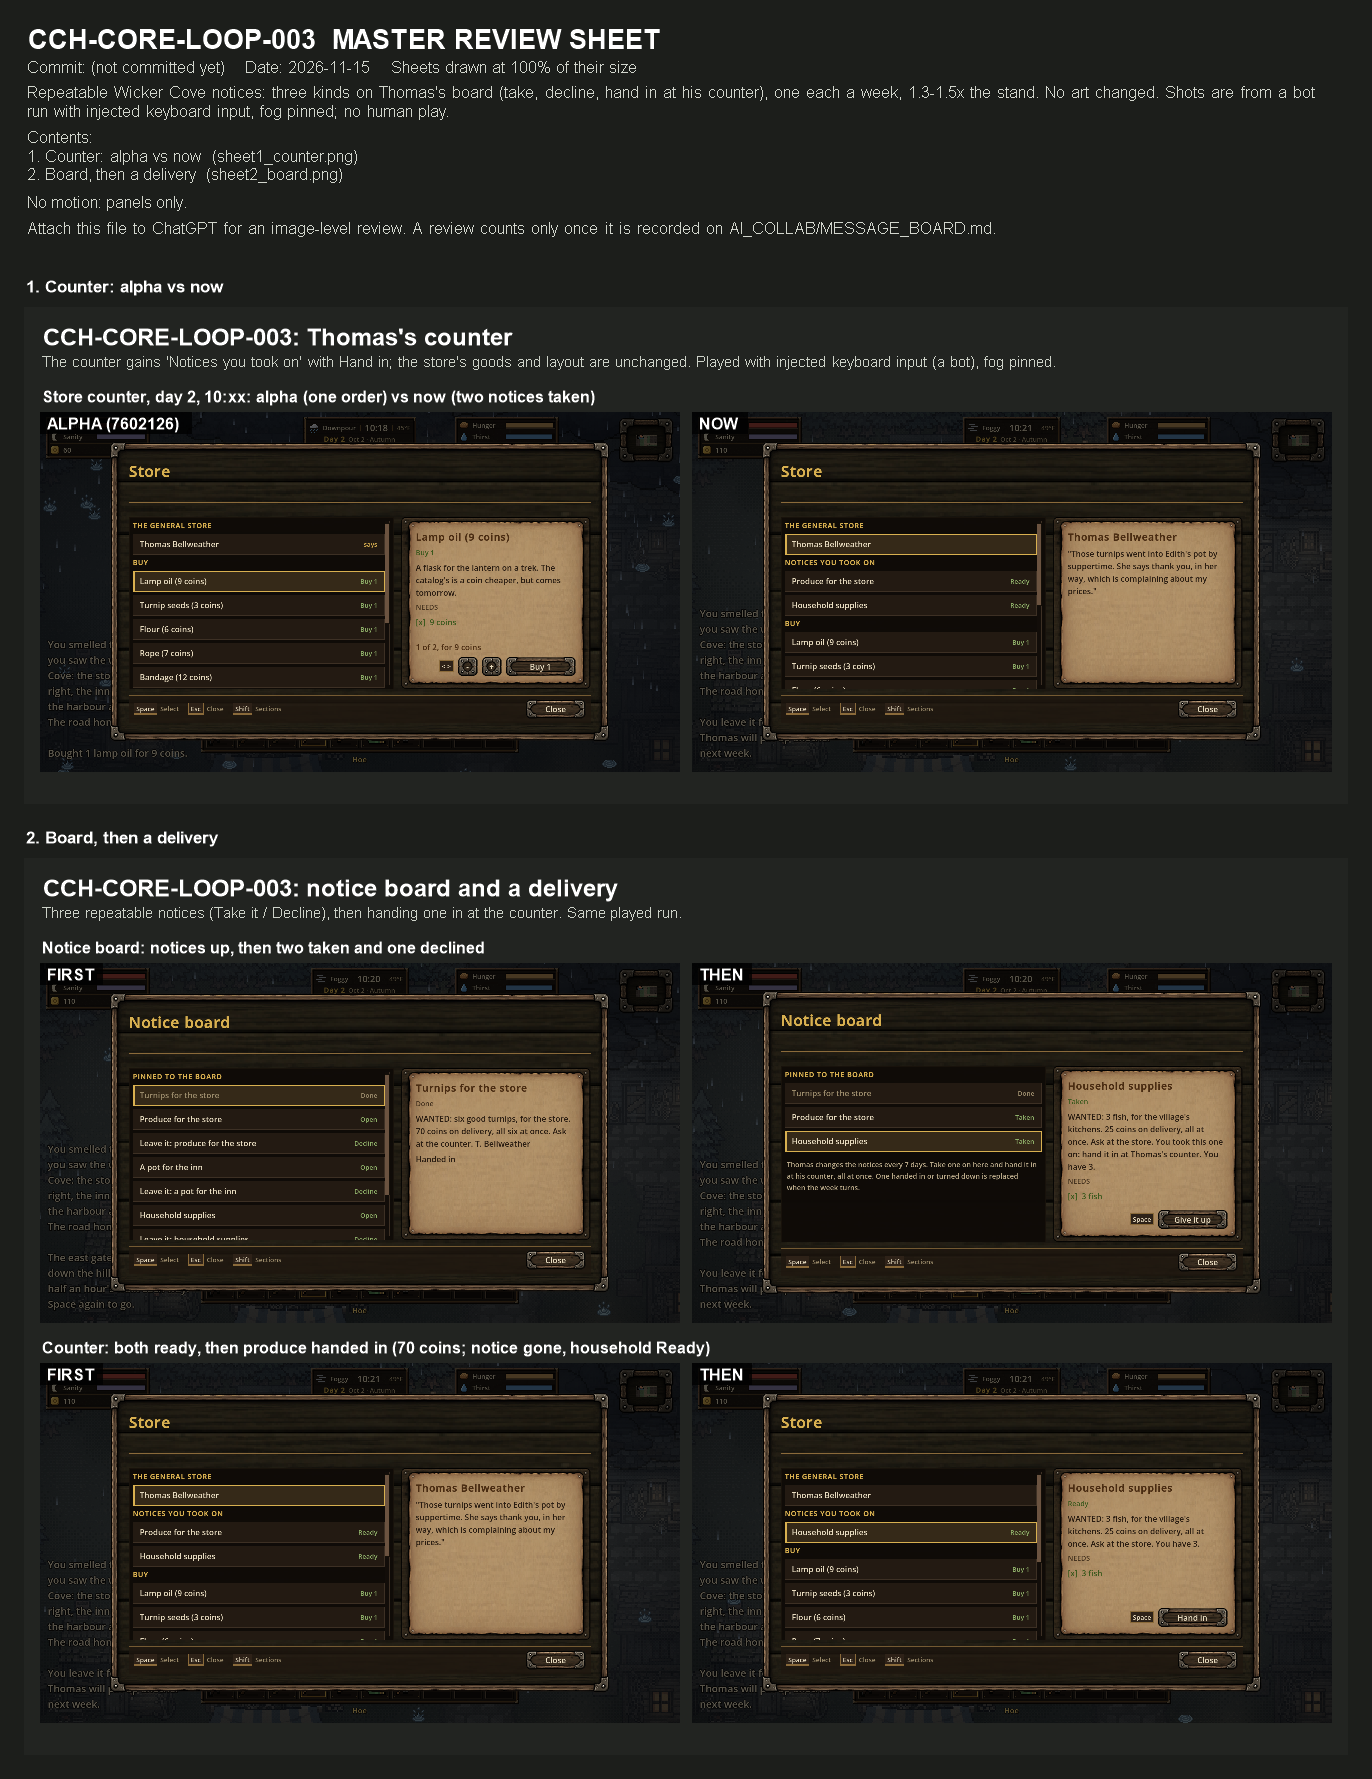
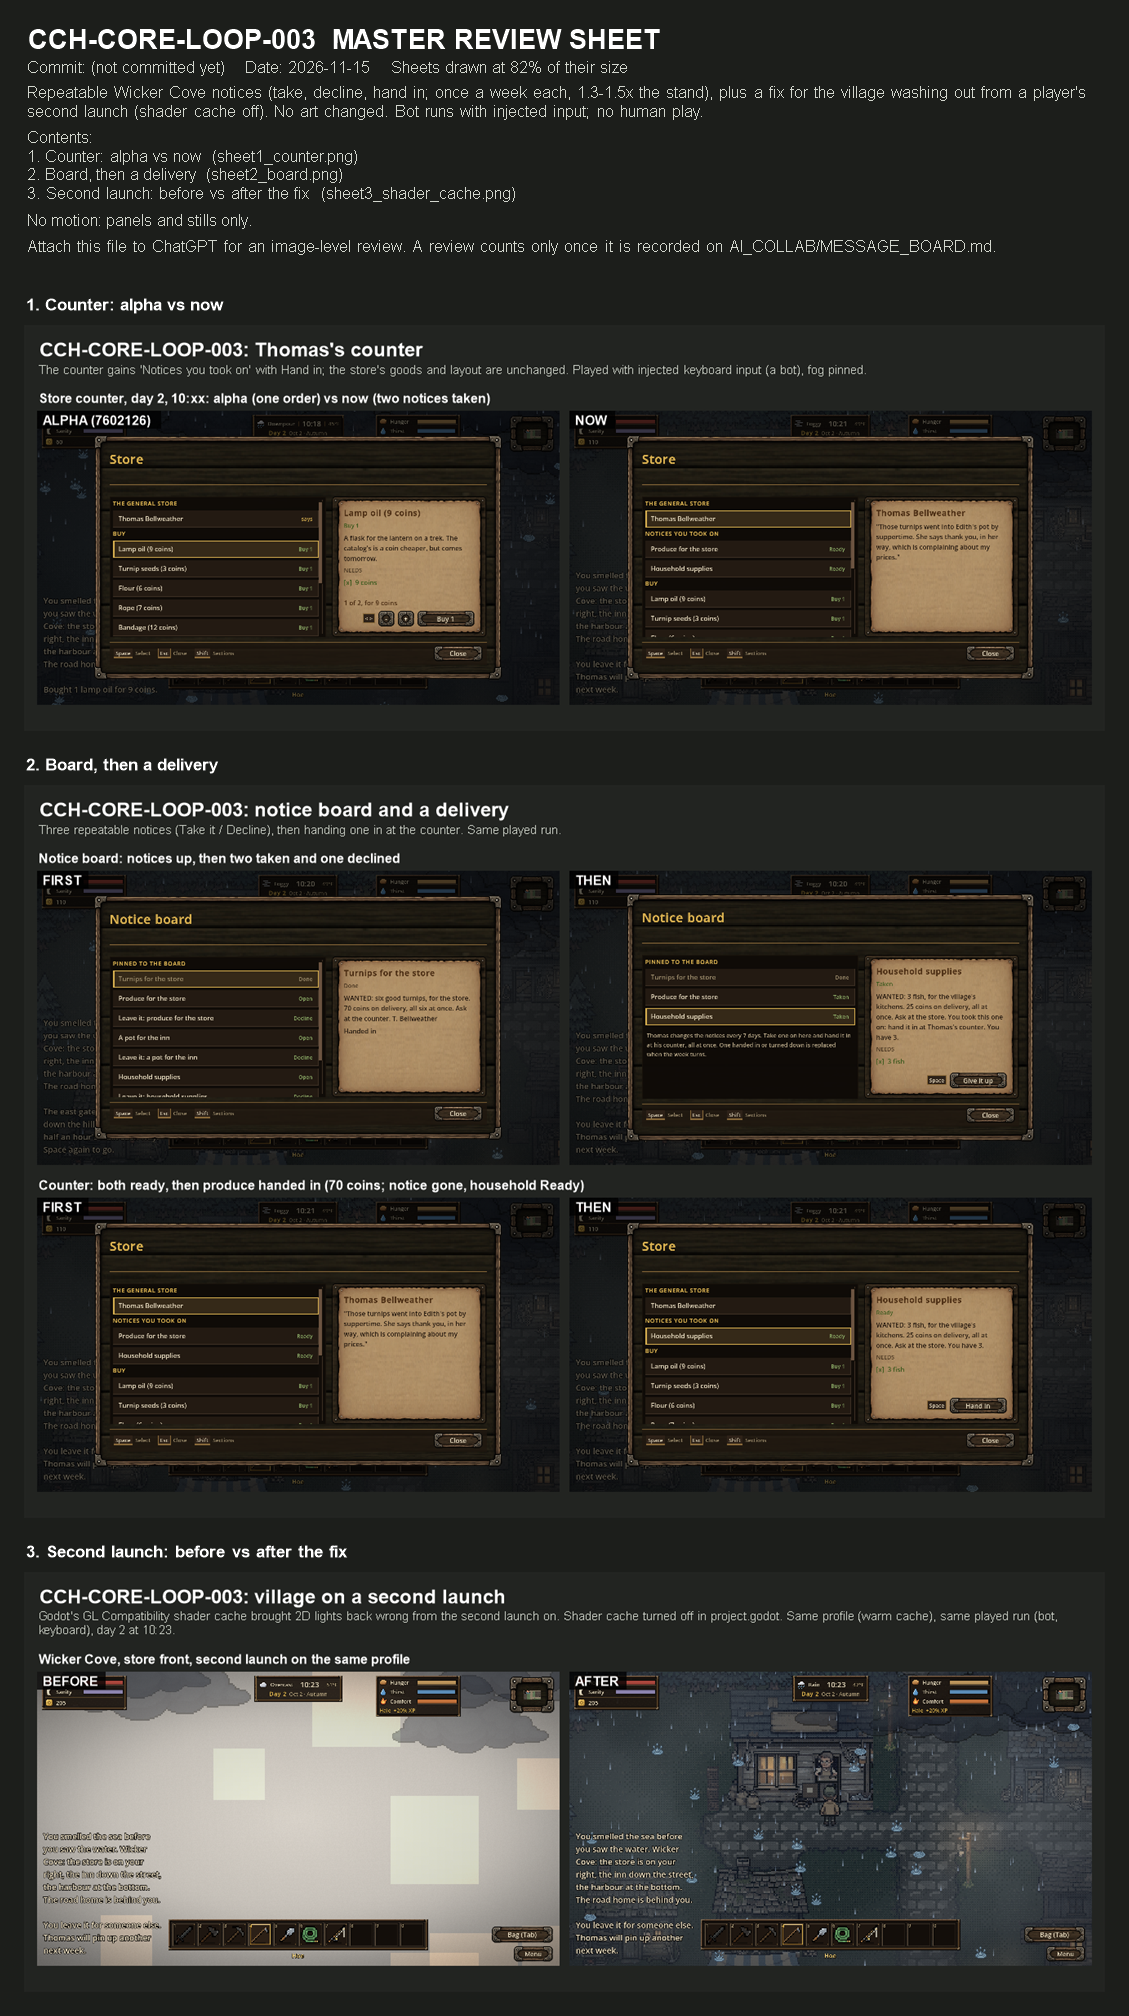
Shader cache off: the village washed out from the second launch
With Godot's GL Compatibility shader cache on, a second launch on the same
machine brought Wicker Cove up under a pale wash with its lamps drawn as
squares (an overcast day did it too; deleting the cache folder fixed it
for one launch). Turning the cache off in project.godot fixes it on warm
profiles for keyboard and controller runs. Only that line of
project.godot is committed.

town_play: weather= now applies the weather; logs render state.

diff --git a/AI_COLLAB/CCH_CORE_LOOP_003_REPORT.md b/AI_COLLAB/CCH_CORE_LOOP_003_REPORT.md
@@ -187,12 +187,18 @@ ending. Nothing in story, night or ending code changed.
 
 ## 8. Known issues and deferred work
 
-- **The village washes out white on a naturally sunny day (pre-existing, found here, not fixed).** In played runs where
-  the day rolled sunny, the street was hidden under large pale squares. With fog pinned, with sunny pinned after a
-  rainy roll, and in a sunny `capture.gd` shot, the village renders normally, and the previous commit's scripts
-  behave the same (the orders flow isn't involved). Likely cause, not confirmed: the farm's pond sun glare
-  (`main.gd` `water_fx`, `sky = 1` when `weather_kind == "sunny"`) is drawn while in the village. It touches the
-  approved village lighting, so it's left for its own small fix. Evidence: `play_kbm/08_thomas_after.png`.
+- **Fixed after the first commit: the village washed out from a player's second launch.** Played runs on a reused
+  profile showed the street under a pale wash with lamp-sized light squares. It isn't weather: an overcast rerun on
+  the same profile did it too. A fresh profile, or the same profile with its `shader_cache` folder deleted, rendered
+  normally, and the second launch on that profile turned pale again (screen brightness 152 against 52-65 normal).
+  So Godot's GL Compatibility shader cache brings something back wrong on load; the village shows it in daylight
+  because its windows and lamps are lit all day. Neither filling in the fog shader's uniforms nor rewriting its
+  Bayer table helped (both tried and reverted). **Fix:** `rendering/shader_compiler/shader_cache/enabled=false` in
+  `project.godot` (only that line committed; the owner's other `project.godot` edits stay uncommitted). Shaders now
+  compile at each start; the played run took 22-32 s either way. Verified: two launches on the old warm keyboard
+  profile and one on the warm controller profile, all normal and PASS; `orders_test`, `town_test`, `save_test`,
+  `menu_test` pass again. Sheet: `review/sheet3_shader_cache.png`. Not checked: whether the farm's night lights
+  were affected on later launches (likely, as the same lights path), or whether a Godot update fixes the cache.
 - `aoh_trek_check` misses its 50 ms build threshold alone (55-67 ms) on this machine today; trek code untouched.
   Not investigated further.
 - Notices are all-at-once; no partial delivery. Taking notices from the farm (mailbox) was not built: the
@@ -213,6 +219,7 @@ ending. Nothing in story, night or ending code changed.
   `REPEAT_DONE_LINES`.
 - `scripts/town_system.gd` — the board, take/decline/hand in, rotation, Thomas's line, `history` memory hook,
   save/load with validation; the turnip order spends through `_spend_recipe_input`.
+- `project.godot` — the shader cache off (one line).
 - `scripts/town_art.gd` — the pinned paper shows while any notice is up (`notices_up`); drawing unchanged.
 - `DESIGN.md` — Cooking table; Wicker Cove › repeatable notices, saving, tests, deferred.
 - `tools/orders_test.gd` (new), `tools/food_audit.gd` (new), `tools/town_play.gd` (`scenario=orders`,

diff --git a/DESIGN.md b/DESIGN.md
@@ -891,6 +891,7 @@ CCH-WICKER-COVE-ALPHA-001 (2026-11-15): the first playable version of Wicker Cov
   - **The week:** notices change every 7 days (from day 1). One not taken comes down when the week turns. **Take it** (the board, facing it) and it stays yours until you **hand it in** at Thomas's counter or **give it up**; **Decline** takes it down. A kind handed in or turned down gets its next notice at the next week's turn, so each pays at most once a week and nothing can be re-rolled. A notice is picked by the week and its kind, not at random, and saved, so loading changes nothing. No penalty for declining or giving up.
   - Thomas mentions the delivery the day of and the day after, naming what was handed over (`REPEAT_DONE_LINES`), only from a delivery that went through.
   - **Memory hook:** each delivery sets `flags["order_<kind>"]` (first day) and appends `{day, kind, food, n, coins, label}` to `TownSystem.history` (the last 30), for a later callback, letter or diary line. Nothing else reads it yet.
+- **Shader cache off** (`project.godot`, CCH-CORE-LOOP-003): with Godot's GL Compatibility shader cache on, from the second launch on the village came up under a pale wash with its lamps as squares. Shaders compile at each start instead.
 - **Fog and light:** the fog is there day and night, every season and weather. A drifting grey on the art-pixel grid, thin within three tiles of the farmer and thicker with distance and over the water. The light is the day's sky leaned 16% toward a cool grey and never darker than a floor at night; windows and lamps are warm point lights, stronger after dusk; the inn is lit by its fire. Weather (rain, snow) shows in the street. Nothing says why the fog is there or when it came; two brothers disagree about whether it ever lifts.
 - **Saved** under `town` (save version 17): visits, the first-time hooks (`flags`: arrived, traded, delivered, met_thomas, met_edith; for the Living Memory System later, read by nothing else yet), each resident's last word, each shop's last trade day, today's stock and sales, the orders done, and the notices (`board`, `slot_week`, `history`; new keys, no version bump: a save without them gets this week's notices, and a save with the turnips done keeps them done). An older save has none and starts fresh.
 - **Art:** PixelLab (10 requests): the store, inn, four cottages, the market stall, two dories, harbour props, Thomas and Edith, and two Wang tilesets (muddy grass to cobbles, sea to quay stone). Picked and cleaned by `tools/wicker_art.py`; ids in `pixellab-assets.json`. Reused: the farm's firs, boulders, lantern post, barrels, bench and the farmhouse interior's floor, wall, hearth, fire and furniture. The sign's words are drawn in the UI font. Portraits are code-drawn like the walkers'.
